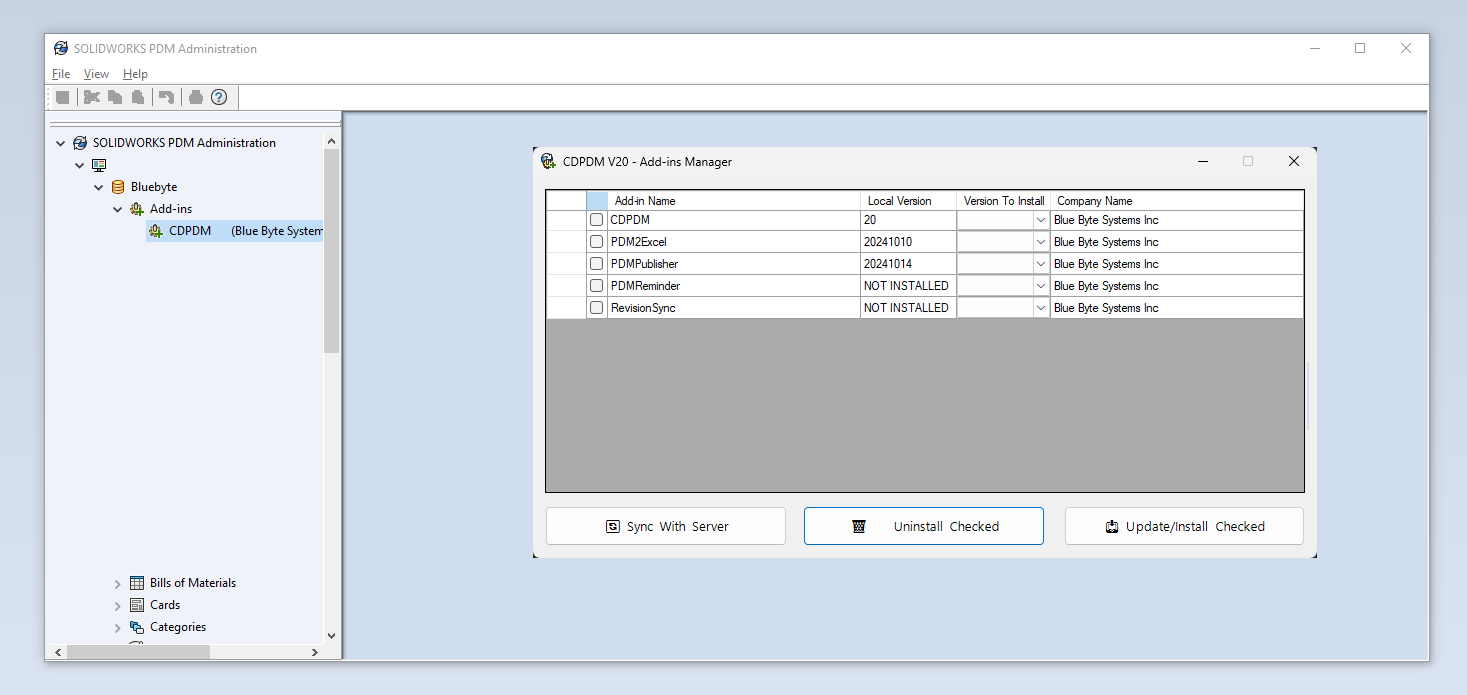
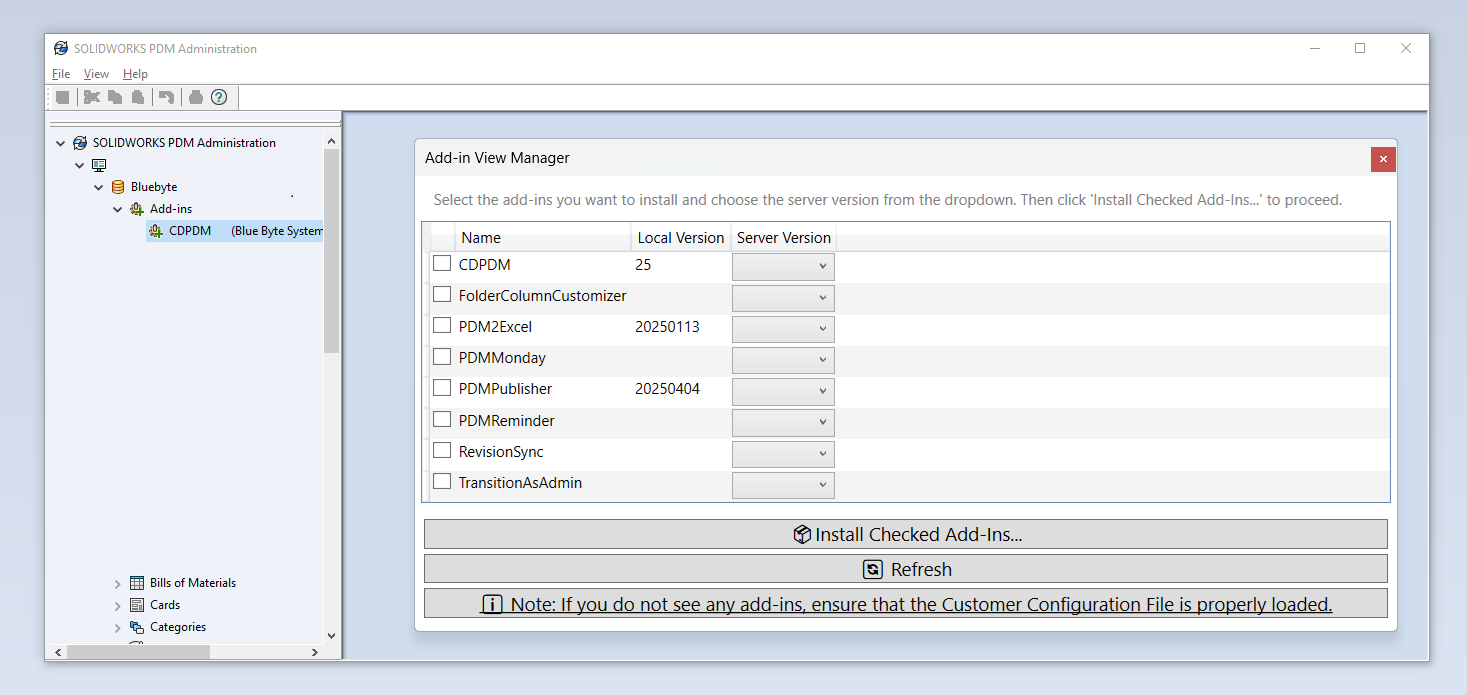
added docs

Changed region(s): [[0.2761, 0.1813, 0.9509, 0.9065]]

diff --git a/docs/src/cdpdm.html b/docs/src/cdpdm.html
@@ -16,7 +16,7 @@
       <meta name="docfx:rel" content="../">
       
       
-      <meta name="docfx:docurl" content="https://github.com/BlueByteSystemsInc/docs/blob/main/src/cdpdm.md/#L1">
+      <meta name="docfx:docurl" content="https://github.com/BlueByteSystemsInc/Blue-Byte-Systems-Inc-Help-Center/blob/main/src/cdpdm.md/#L1">
       <meta name="loc:inThisArticle" content="In this article">
       <meta name="loc:searchResultsCount" content="{count} results for &quot;{query}&quot;">
       <meta name="loc:searchNoResults" content="No results for &quot;{query}&quot;">
@@ -87,7 +87,7 @@
         <article data-uid="">
 <h1 id="continuous-delivery">Continuous Delivery</h1>
 
-<div class="embeddedvideo"><iframe src="https://www.loom.com/embed/0caf90c77d4344cab8d88b0d318d6dcf?sid=ecf596af-8fe9-460c-9177-a568db909600" frameborder="0" allowfullscreen="true"></iframe></div>
+<p><video src="https://bluebyte.biz/wp-content/docsvideos/cdpdm.mp4" autoplay="" muted="" controls="" style="width: 100%; border-radius: 12px;"></video></p>
 <p>CDPDM is a PDM add-in by Blue Byte Systems Inc. that facilitates the deployment of PDM and task add-ins developed for you.</p>
 <p>The add-in communicates with our servers and allows the installation and uninstallation of all versions of your PDM add-ins.</p>
 <h2 id="advantages">Advantages</h2>
@@ -132,36 +132,36 @@
 <ul>
 <li>Locate your Customer Configuration File.</li>
 <li>You can upload the Customer Configuration File via the Administration tool.</li>
-<li>Right-click on the add-in and click Upload Customer Configuration File...</li>
+<li>Right-click on the add-in and click <em>Upload Customer Configuration File...</em></li>
 <li>Browse to the Customer Configuration File.</li>
 </ul>
 <p><img src="../images/cdpdm_menu.png" alt="CDPDM Menu"></p>
 <div class="NOTE">
 <h5>Note</h5>
-<p>You can configure the settings of CDPDM by adding the credentials of the Customer Configuration File manually. Contact support for help.</p>
+<p>You can configure the settings of CDPDM by adding the credentials of the Customer Configuration File manually. Contact support for help with the <em>Settings...</em> dialog.</p>
 </div>
-<h2 id="updating-add-ins">Updating Add-ins</h2>
+<h2 id="installingupdating-add-ins">Installing/Updating Add-ins</h2>
 <ul>
-<li>Right-click on CDPDM under Add-ins in the Administration tool and click Update Add-ins...</li>
+<li>Right-click on CDPDM under Add-ins in the Administration tool and click <em>Update AddIns...</em></li>
 <li>This process may take a few moments depending on how many add-ins are in your vault.</li>
 <li>You will be prompted with a window like the following:</li>
 </ul>
-<p><img src="../images/cdpdm_updateaddins.png" alt="CDPDM Update"></p>
-<p>You can:</p>
-<ul>
-<li>Install the selected add-in from the list. From the <em>Version To Install</em> dropdown, you can select which version to install and make sure to check the add-in.</li>
-<li>Uninstall the selected add-in from the vault (if it is installed).</li>
-</ul>
-<p>The installation process will ask you if you want to restart PDM. This may be beneficial to do after every upgrade, especially if you're validating a feature.</p>
+<p><img src="../images/cdpdm_updateaddins_updated.png" alt="CDPDM Update"></p>
+<ol>
+<li>Check the add-in(s) you'd like to install.</li>
+<li>Pick the version(s) from the Server Version column.</li>
+<li>Click on <em>Install Checked Add-Ins</em> to install...</li>
+</ol>
+<p>CDPDM will ask you if you want to restart PDM. This may be needed to do after every add-in update.</p>
 <div class="NOTE">
 <h5>Note</h5>
-<p>Please allow for a few moments after you click Install/Update. The add-in will be downloaded unblocked and added to the vault. This operation includes suppressing some PDM dialog boxes.</p>
+<p>Please allow for a few moments after you click <em>Install Checked Add-Ins</em>. The add-in will be downloaded unblocked and added to the vault. This operation includes suppressing some PDM dialog boxes.</p>
 </div>
 
 </article>
 
         <div class="contribution d-print-none">
-          <a href="https://github.com/BlueByteSystemsInc/docs/blob/main/src/cdpdm.md/#L1" class="edit-link">Edit this page</a>
+          <a href="https://github.com/BlueByteSystemsInc/Blue-Byte-Systems-Inc-Help-Center/blob/main/src/cdpdm.md/#L1" class="edit-link">Edit this page</a>
         </div>
 
         <div class="next-article d-print-none border-top" id="nextArticle"></div>

diff --git a/docs/src/updateaddinswithcdpdm.html b/docs/src/updateaddinswithcdpdm.html
@@ -16,7 +16,7 @@
       <meta name="docfx:rel" content="../">
       
       
-      <meta name="docfx:docurl" content="https://github.com/BlueByteSystemsInc/docs/blob/main/src/updateaddinswithcdpdm.md/#L1">
+      <meta name="docfx:docurl" content="https://github.com/BlueByteSystemsInc/Blue-Byte-Systems-Inc-Help-Center/blob/main/src/updateaddinswithcdpdm.md/#L1">
       <meta name="loc:inThisArticle" content="In this article">
       <meta name="loc:searchResultsCount" content="{count} results for &quot;{query}&quot;">
       <meta name="loc:searchNoResults" content="No results for &quot;{query}&quot;">
@@ -87,6 +87,7 @@
         <article data-uid="">
 <h1 id="updating-blue-byte-systems-pdm-add-ins-with-cdpdm">Updating Blue Byte Systems PDM add-ins with CDPDM</h1>
 
+<p><video src="https://bluebyte.biz/wp-content/docsvideos/cdpdm.mp4" autoplay="" muted="" controls="" style="width: 100%; border-radius: 12px;"></video></p>
 <p>This article is about updating any SOLIDWORKS PDM add-in you purchase from Blue Byte Systems Inc using the CDPDM add-in. This tool streamlines the code delivery process for SOLIDWORKS PDM customers by utilizing the CDPDM continuous delivery platform. It allows you to access and update your purchased add-ins and all their versions efficiently.</p>
 <h3 id="installation-steps">Installation Steps:</h3>
 <ol>
@@ -147,7 +148,7 @@
 </article>
 
         <div class="contribution d-print-none">
-          <a href="https://github.com/BlueByteSystemsInc/docs/blob/main/src/updateaddinswithcdpdm.md/#L1" class="edit-link">Edit this page</a>
+          <a href="https://github.com/BlueByteSystemsInc/Blue-Byte-Systems-Inc-Help-Center/blob/main/src/updateaddinswithcdpdm.md/#L1" class="edit-link">Edit this page</a>
         </div>
 
         <div class="next-article d-print-none border-top" id="nextArticle"></div>

diff --git a/docs/src/pdm2excelnewtask.html b/docs/src/pdm2excelnewtask.html
@@ -16,7 +16,7 @@
       <meta name="docfx:rel" content="../">
       
       
-      <meta name="docfx:docurl" content="https://github.com/BlueByteSystemsInc/docs/blob/main/src/pdm2excelnewtask.md/#L1">
+      <meta name="docfx:docurl" content="https://github.com/BlueByteSystemsInc/Blue-Byte-Systems-Inc-Help-Center/blob/main/src/pdm2excelnewtask.md/#L1">
       <meta name="loc:inThisArticle" content="In this article">
       <meta name="loc:searchResultsCount" content="{count} results for &quot;{query}&quot;">
       <meta name="loc:searchNoResults" content="No results for &quot;{query}&quot;">
@@ -132,7 +132,7 @@ description: This section will detail the setup pages that require explanation.<
 </article>
 
         <div class="contribution d-print-none">
-          <a href="https://github.com/BlueByteSystemsInc/docs/blob/main/src/pdm2excelnewtask.md/#L1" class="edit-link">Edit this page</a>
+          <a href="https://github.com/BlueByteSystemsInc/Blue-Byte-Systems-Inc-Help-Center/blob/main/src/pdm2excelnewtask.md/#L1" class="edit-link">Edit this page</a>
         </div>
 
         <div class="next-article d-print-none border-top" id="nextArticle"></div>

diff --git a/docs/src/conditions.html b/docs/src/conditions.html
@@ -16,7 +16,7 @@
       <meta name="docfx:rel" content="../">
       
       
-      <meta name="docfx:docurl" content="https://github.com/BlueByteSystemsInc/docs/blob/main/src/conditions.md/#L1">
+      <meta name="docfx:docurl" content="https://github.com/BlueByteSystemsInc/Blue-Byte-Systems-Inc-Help-Center/blob/main/src/conditions.md/#L1">
       <meta name="loc:inThisArticle" content="In this article">
       <meta name="loc:searchResultsCount" content="{count} results for &quot;{query}&quot;">
       <meta name="loc:searchNoResults" content="No results for &quot;{query}&quot;">
@@ -207,7 +207,7 @@ The task will only process files that evaluate any of the set conditions as <em>
 </article>
 
         <div class="contribution d-print-none">
-          <a href="https://github.com/BlueByteSystemsInc/docs/blob/main/src/conditions.md/#L1" class="edit-link">Edit this page</a>
+          <a href="https://github.com/BlueByteSystemsInc/Blue-Byte-Systems-Inc-Help-Center/blob/main/src/conditions.md/#L1" class="edit-link">Edit this page</a>
         </div>
 
         <div class="next-article d-print-none border-top" id="nextArticle"></div>

diff --git a/docs/src/pdm2excel.html b/docs/src/pdm2excel.html
@@ -16,7 +16,7 @@
       <meta name="docfx:rel" content="../">
       
       
-      <meta name="docfx:docurl" content="https://github.com/BlueByteSystemsInc/docs/blob/main/src/pdm2excel.md/#L1">
+      <meta name="docfx:docurl" content="https://github.com/BlueByteSystemsInc/Blue-Byte-Systems-Inc-Help-Center/blob/main/src/pdm2excel.md/#L1">
       <meta name="loc:inThisArticle" content="In this article">
       <meta name="loc:searchResultsCount" content="{count} results for &quot;{query}&quot;">
       <meta name="loc:searchNoResults" content="No results for &quot;{query}&quot;">
@@ -115,7 +115,7 @@ Alternatively, you can download the <code>.cex</code> file from the order email 
 </article>
 
         <div class="contribution d-print-none">
-          <a href="https://github.com/BlueByteSystemsInc/docs/blob/main/src/pdm2excel.md/#L1" class="edit-link">Edit this page</a>
+          <a href="https://github.com/BlueByteSystemsInc/Blue-Byte-Systems-Inc-Help-Center/blob/main/src/pdm2excel.md/#L1" class="edit-link">Edit this page</a>
         </div>
 
         <div class="next-article d-print-none border-top" id="nextArticle"></div>

diff --git a/docs/src/options.html b/docs/src/options.html
@@ -16,7 +16,7 @@
       <meta name="docfx:rel" content="../">
       
       
-      <meta name="docfx:docurl" content="https://github.com/BlueByteSystemsInc/docs/blob/main/src/options.md/#L1">
+      <meta name="docfx:docurl" content="https://github.com/BlueByteSystemsInc/Blue-Byte-Systems-Inc-Help-Center/blob/main/src/options.md/#L1">
       <meta name="loc:inThisArticle" content="In this article">
       <meta name="loc:searchResultsCount" content="{count} results for &quot;{query}&quot;">
       <meta name="loc:searchNoResults" content="No results for &quot;{query}&quot;">
@@ -300,7 +300,7 @@ This prevents race conditions between SOLIDWORKS PDM and the task during files a
 </article>
 
         <div class="contribution d-print-none">
-          <a href="https://github.com/BlueByteSystemsInc/docs/blob/main/src/options.md/#L1" class="edit-link">Edit this page</a>
+          <a href="https://github.com/BlueByteSystemsInc/Blue-Byte-Systems-Inc-Help-Center/blob/main/src/options.md/#L1" class="edit-link">Edit this page</a>
         </div>
 
         <div class="next-article d-print-none border-top" id="nextArticle"></div>

diff --git a/docs/src/pdmpublisherspecialvariable.html b/docs/src/pdmpublisherspecialvariable.html
@@ -16,7 +16,7 @@
       <meta name="docfx:rel" content="../">
       
       
-      <meta name="docfx:docurl" content="https://github.com/BlueByteSystemsInc/docs/blob/main/src/pdmpublisherspecialvariable.md/#L1">
+      <meta name="docfx:docurl" content="https://github.com/BlueByteSystemsInc/Blue-Byte-Systems-Inc-Help-Center/blob/main/src/pdmpublisherspecialvariable.md/#L1">
       <meta name="loc:inThisArticle" content="In this article">
       <meta name="loc:searchResultsCount" content="{count} results for &quot;{query}&quot;">
       <meta name="loc:searchNoResults" content="No results for &quot;{query}&quot;">
@@ -97,7 +97,7 @@
 </article>
 
         <div class="contribution d-print-none">
-          <a href="https://github.com/BlueByteSystemsInc/docs/blob/main/src/pdmpublisherspecialvariable.md/#L1" class="edit-link">Edit this page</a>
+          <a href="https://github.com/BlueByteSystemsInc/Blue-Byte-Systems-Inc-Help-Center/blob/main/src/pdmpublisherspecialvariable.md/#L1" class="edit-link">Edit this page</a>
         </div>
 
         <div class="next-article d-print-none border-top" id="nextArticle"></div>

diff --git a/docs/src/pdm2excellicensemanagement.html b/docs/src/pdm2excellicensemanagement.html
@@ -16,7 +16,7 @@
       <meta name="docfx:rel" content="../">
       
       
-      <meta name="docfx:docurl" content="https://github.com/BlueByteSystemsInc/docs/blob/main/src/pdm2excellicensemanagement.md/#L1">
+      <meta name="docfx:docurl" content="https://github.com/BlueByteSystemsInc/Blue-Byte-Systems-Inc-Help-Center/blob/main/src/pdm2excellicensemanagement.md/#L1">
       <meta name="loc:inThisArticle" content="In this article">
       <meta name="loc:searchResultsCount" content="{count} results for &quot;{query}&quot;">
       <meta name="loc:searchNoResults" content="No results for &quot;{query}&quot;">
@@ -129,7 +129,7 @@
 </article>
 
         <div class="contribution d-print-none">
-          <a href="https://github.com/BlueByteSystemsInc/docs/blob/main/src/pdm2excellicensemanagement.md/#L1" class="edit-link">Edit this page</a>
+          <a href="https://github.com/BlueByteSystemsInc/Blue-Byte-Systems-Inc-Help-Center/blob/main/src/pdm2excellicensemanagement.md/#L1" class="edit-link">Edit this page</a>
         </div>
 
         <div class="next-article d-print-none border-top" id="nextArticle"></div>

diff --git a/docs/src/propertiespagepdmpublisher.html b/docs/src/propertiespagepdmpublisher.html
@@ -16,7 +16,7 @@
       <meta name="docfx:rel" content="../">
       
       
-      <meta name="docfx:docurl" content="https://github.com/BlueByteSystemsInc/docs/blob/main/src/propertiespagepdmpublisher.md/#L1">
+      <meta name="docfx:docurl" content="https://github.com/BlueByteSystemsInc/Blue-Byte-Systems-Inc-Help-Center/blob/main/src/propertiespagepdmpublisher.md/#L1">
       <meta name="loc:inThisArticle" content="In this article">
       <meta name="loc:searchResultsCount" content="{count} results for &quot;{query}&quot;">
       <meta name="loc:searchNoResults" content="No results for &quot;{query}&quot;">
@@ -130,7 +130,7 @@
 </article>
 
         <div class="contribution d-print-none">
-          <a href="https://github.com/BlueByteSystemsInc/docs/blob/main/src/propertiespagepdmpublisher.md/#L1" class="edit-link">Edit this page</a>
+          <a href="https://github.com/BlueByteSystemsInc/Blue-Byte-Systems-Inc-Help-Center/blob/main/src/propertiespagepdmpublisher.md/#L1" class="edit-link">Edit this page</a>
         </div>
 
         <div class="next-article d-print-none border-top" id="nextArticle"></div>

diff --git a/docs/src/pdm2excelneedmorehelp.html b/docs/src/pdm2excelneedmorehelp.html
@@ -16,7 +16,7 @@
       <meta name="docfx:rel" content="../">
       
       
-      <meta name="docfx:docurl" content="https://github.com/BlueByteSystemsInc/docs/blob/main/src/pdm2excelneedmorehelp.md/#L1">
+      <meta name="docfx:docurl" content="https://github.com/BlueByteSystemsInc/Blue-Byte-Systems-Inc-Help-Center/blob/main/src/pdm2excelneedmorehelp.md/#L1">
       <meta name="loc:inThisArticle" content="In this article">
       <meta name="loc:searchResultsCount" content="{count} results for &quot;{query}&quot;">
       <meta name="loc:searchNoResults" content="No results for &quot;{query}&quot;">
@@ -92,7 +92,7 @@
 </article>
 
         <div class="contribution d-print-none">
-          <a href="https://github.com/BlueByteSystemsInc/docs/blob/main/src/pdm2excelneedmorehelp.md/#L1" class="edit-link">Edit this page</a>
+          <a href="https://github.com/BlueByteSystemsInc/Blue-Byte-Systems-Inc-Help-Center/blob/main/src/pdm2excelneedmorehelp.md/#L1" class="edit-link">Edit this page</a>
         </div>
 
         <div class="next-article d-print-none border-top" id="nextArticle"></div>

diff --git a/docs/src/licensespdmpublisher.html b/docs/src/licensespdmpublisher.html
@@ -16,7 +16,7 @@
       <meta name="docfx:rel" content="../">
       
       
-      <meta name="docfx:docurl" content="https://github.com/BlueByteSystemsInc/docs/blob/main/src/licensespdmpublisher.md/#L1">
+      <meta name="docfx:docurl" content="https://github.com/BlueByteSystemsInc/Blue-Byte-Systems-Inc-Help-Center/blob/main/src/licensespdmpublisher.md/#L1">
       <meta name="loc:inThisArticle" content="In this article">
       <meta name="loc:searchResultsCount" content="{count} results for &quot;{query}&quot;">
       <meta name="loc:searchNoResults" content="No results for &quot;{query}&quot;">
@@ -129,7 +129,7 @@
 </article>
 
         <div class="contribution d-print-none">
-          <a href="https://github.com/BlueByteSystemsInc/docs/blob/main/src/licensespdmpublisher.md/#L1" class="edit-link">Edit this page</a>
+          <a href="https://github.com/BlueByteSystemsInc/Blue-Byte-Systems-Inc-Help-Center/blob/main/src/licensespdmpublisher.md/#L1" class="edit-link">Edit this page</a>
         </div>
 
         <div class="next-article d-print-none border-top" id="nextArticle"></div>

diff --git a/docs/src/installingpdmaddins.html b/docs/src/installingpdmaddins.html
@@ -16,7 +16,7 @@
       <meta name="docfx:rel" content="../">
       
       
-      <meta name="docfx:docurl" content="https://github.com/BlueByteSystemsInc/docs/blob/main/src/installingpdmaddins.md/#L1">
+      <meta name="docfx:docurl" content="https://github.com/BlueByteSystemsInc/Blue-Byte-Systems-Inc-Help-Center/blob/main/src/installingpdmaddins.md/#L1">
       <meta name="loc:inThisArticle" content="In this article">
       <meta name="loc:searchResultsCount" content="{count} results for &quot;{query}&quot;">
       <meta name="loc:searchNoResults" content="No results for &quot;{query}&quot;">
@@ -132,7 +132,7 @@
 </article>
 
         <div class="contribution d-print-none">
-          <a href="https://github.com/BlueByteSystemsInc/docs/blob/main/src/installingpdmaddins.md/#L1" class="edit-link">Edit this page</a>
+          <a href="https://github.com/BlueByteSystemsInc/Blue-Byte-Systems-Inc-Help-Center/blob/main/src/installingpdmaddins.md/#L1" class="edit-link">Edit this page</a>
         </div>
 
         <div class="next-article d-print-none border-top" id="nextArticle"></div>
